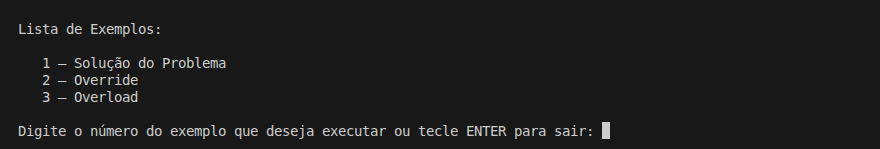
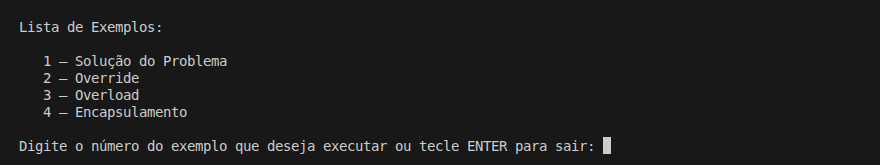
docs: adiciona descricao e screenshot da versao 0.6

diff --git a/Project/README.md b/Project/README.md
@@ -16,20 +16,24 @@ area = RaizQ(p * (p - S1) * (p - S2) * (p - S3))
 
 ## Detalhes Gerais
 
-- **Versão**: 0.5
-- **Conceito aplicado:** Sobrecarga (Overload)
+- **Versão**: 0.6
+- **Conceito aplicado:** Encapsulamento
 
 ## Descrição da Versão
 
 ```bash
 
-Introduz o conceito de sobrecarga.
+Evolucao do modelo da classe Triangle
+com aplicacao de encapsulamento.
 
-Permite a criacao de um triangulo
-informando apenas o nome, utilizando
-valores padrao para os lados e
-delegando a construcao ao construtor
-principal por meio de encadeamento.
+Os atributos passam a ser privados e
+expostos por meio de properties,
+permitindo controle de acesso e
+validacao no setter do Name.
+
+Os lados tornam-se somente leitura,
+garantindo maior consistencia do objeto
+apos a instanciacao.
 
 ```
 
@@ -48,3 +52,7 @@ principal por meio de encadeamento.
 (Exemplo de Overload)
 
 <img src="Img/Overload.png" alt="Overload" width="936">
+
+(Exemplo de Encapsulamento)
+
+<img src="Img/Encapsulation.png" alt="Encapsulation" width="936">
